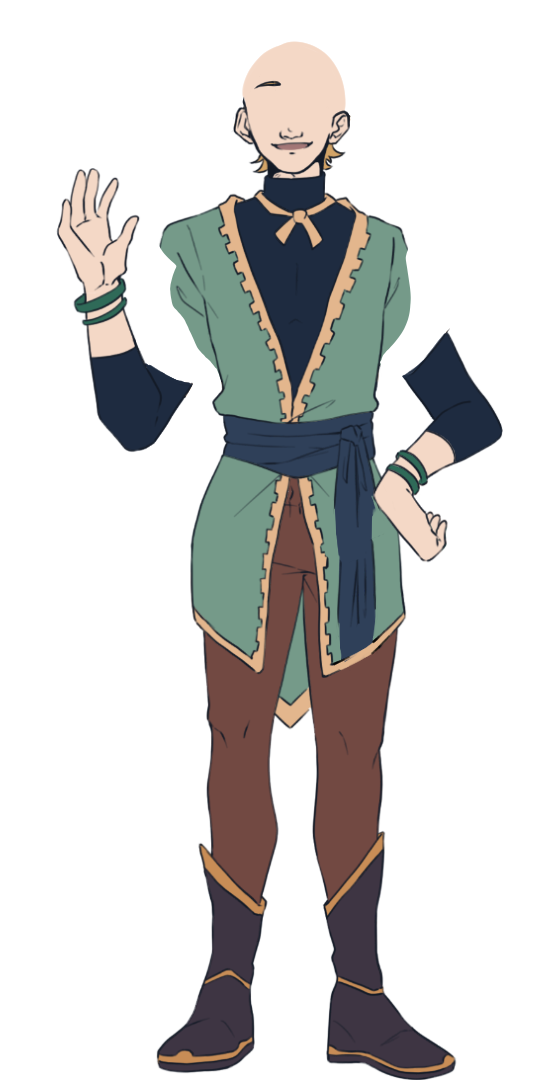
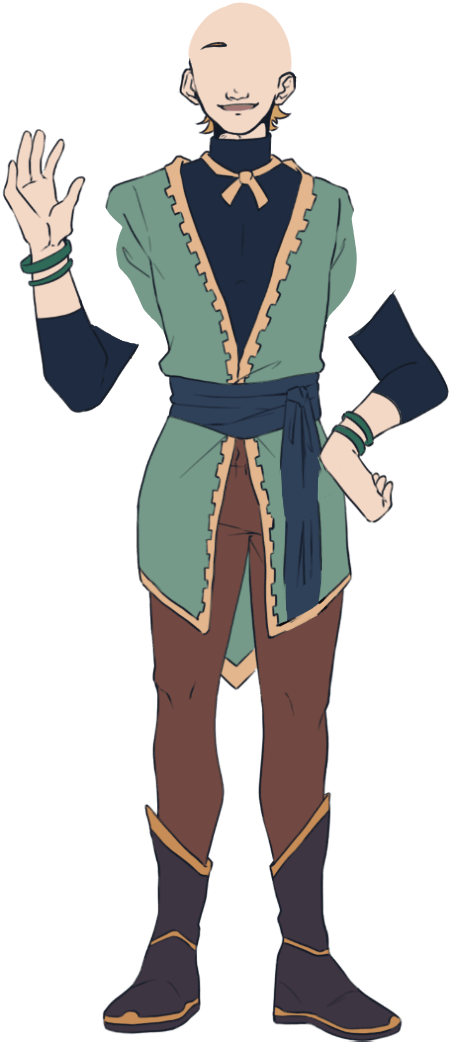
Suppression du baseSprite pour le considérer comme une animation

Changed region(s): [[0.0, 0.0, 0.9933, 1.0]]

diff --git a/src/graphics.ts b/src/graphics.ts
@@ -568,76 +568,61 @@ export class Graphics extends entity.CompositeEntity {
       );
 
       const baseDir = `images/characters/${character}`;
-
+      
       let baseJson = this._entityConfig.app.loader.resources[`${baseDir}/base.json`].data;
       if(!_.has(baseJson, mood))
         mood = baseJson["default"];
 
-      const basePng = baseDir + `/base_${mood}.png`;
-
-      // Moving textures
-      if (_.has(this.entityConfig.app.loader.resources, basePng)) {
-        // Base
-        const baseSprite = new PIXI.Sprite(
-          this.entityConfig.app.loader.resources[basePng].texture
-        );
-        baseSprite.anchor.set(0, 0);
-        baseSprite.pivot.set(
-          (baseSprite.width - 1920) / 2,
-          (baseSprite.height - 1080) / 2
-        );
-
-        characterContainer.addChild(baseSprite);
-
-        // Load animations JSON
-        for (const bodyPart of baseJson[mood]) {
-          if (
-            _.has(
-              this._entityConfig.app.loader.resources,
+      // Load animations JSON
+      for (const bodyPart of baseJson[mood]) {
+        if (
+          _.has(
+            this._entityConfig.app.loader.resources,
+            `${baseDir}/${bodyPart.model}.json`
+          )
+        ) {
+          const animatedSpriteEntity = util.makeAnimatedSprite(
+            this._entityConfig.app.loader.resources[
               `${baseDir}/${bodyPart.model}.json`
-            )
-          ) {
-            const animatedSpriteEntity = util.makeAnimatedSprite(
-              this._entityConfig.app.loader.resources[
-                `${baseDir}/${bodyPart.model}.json`
-              ]
-            );
-            animatedSpriteEntity.sprite.anchor.set(0.5, 0.5);
-            animatedSpriteEntity.sprite.x = bodyPart.x;
-            animatedSpriteEntity.sprite.y = bodyPart.y;
+            ]
+          );
+          animatedSpriteEntity.sprite.anchor.set(0.5, 0.5);
+          animatedSpriteEntity.sprite.x = bodyPart.x;
+          animatedSpriteEntity.sprite.y = bodyPart.y;
 
-            animatedSpriteEntity.sprite.animationSpeed = 0.33;
-            this._characterEntity.addChildEntity(animatedSpriteEntity);
-          } else {
-            console.log(`Missing : ${baseDir}/${bodyPart.model}.json`);
-          }
+          animatedSpriteEntity.sprite.animationSpeed = 0.33;
+          this._characterEntity.addChildEntity(animatedSpriteEntity);
+        } else {
+          console.log(`Missing : ${baseDir}/${bodyPart.model}.json`);
         }
-
-        // Place character on screen
-        this._characterLayer.addChild(characterContainer);
-        characterContainer.setTransform(250, 80, 1.1, 1.1);
       }
 
-      // Static textures
-      else if (
-        _.has(this.entityConfig.app.loader.resources, baseDir + "/static.png")
-      ) {
-        // Base
-        const baseSprite = new PIXI.Sprite(
-          this.entityConfig.app.loader.resources[
-            baseDir + "/static.png"
-          ].texture
-        );
+      // Place character on screen
+      this._characterLayer.addChild(characterContainer);
+      //characterContainer.setTransform(250, 80, 1.1, 1.1);
+      characterContainer.setTransform(0, 0, 1, 1);
+        
 
-        characterContainer.addChild(baseSprite);
+      // // Static textures
+      // else if (
+      //   _.has(this.entityConfig.app.loader.resources, baseDir + "/static.png")
+      // ) {
+      //   // Base
+      //   const baseSprite = new PIXI.Sprite(
+      //     this.entityConfig.app.loader.resources[
+      //       baseDir + "/static.png"
+      //     ].texture
+      //   );
 
-        // Place character on screen
-        this._characterLayer.addChild(characterContainer);
-        characterContainer.setTransform(0, 0, 1, 1);
-      } else {
-        console.warn("Missing asset for character", character);
-        return;
-      }
+      //   characterContainer.addChild(baseSprite);
+
+      //   // Place character on screen
+      //   this._characterLayer.addChild(characterContainer);
+      //   characterContainer.setTransform(0, 0, 1, 1);
+      // } else {
+      //   console.warn("Missing asset for character", character);
+      //   return;
+      // }
     }
 
     this._lastCharacter = character;

diff --git a/src/game.ts b/src/game.ts
@@ -53,6 +53,7 @@ _runner.setVariableStorage(_variableStorage);
 const _clock = new clock.Clock(new PIXI.Point(1920 - 557 / 2, 0));
 
 const statesName = [
+  "fred",
   "D1_level1",
   "D1_level2",
   "D2_level1"
@@ -179,12 +180,12 @@ const graphicalAssets = [
 
   // Fred
   "images/characters/fred/base.json",
-  "images/characters/fred/base_drunk.png",
-  "images/characters/fred/base_excited.png",
-  "images/characters/fred/base_happy.png",
-  "images/characters/fred/base_sad.png",
-  "images/characters/fred/base_smiling.png",
-  "images/characters/fred/base_surprised.png",
+  "images/characters/fred/base_drunk.json",
+  "images/characters/fred/base_excited.json",
+  "images/characters/fred/base_happy.json",
+  "images/characters/fred/base_sad.json",
+  "images/characters/fred/base_smiling.json",
+  "images/characters/fred/base_surprised.json",
 
   "images/characters/fred/arm_drunk.json",
   "images/characters/fred/arm_happy.json",
@@ -203,11 +204,23 @@ const graphicalAssets = [
   "images/characters/fred/sleeves_f.json",
   "images/characters/fred/sleeves_g.json",
 
+  // Temde
+  "images/characters/temde/base.json",
+  "images/characters/temde/base_cheerful.png",
+  "images/characters/temde/base_sad.png",
+  "images/characters/temde/base_smiling.png",
+  "images/characters/temde/base_thinking.png",
+
+  "images/characters/temde/arms_sad.json",
+  "images/characters/temde/arms_thinking.json",
+  "images/characters/temde/cheveuxYeux_a.json",
+  "images/characters/temde/dress_a.json",
+  "images/characters/temde/foulard_a.json",
+
   // Others
   "images/characters/azul/static.png",
   "images/characters/ledai/static.png",
   "images/characters/sapiens/static.png",
-  "images/characters/temde/static.png",
 ];
 
 const fontAssets: string[] = ["Ubuntu", "Jura"];
